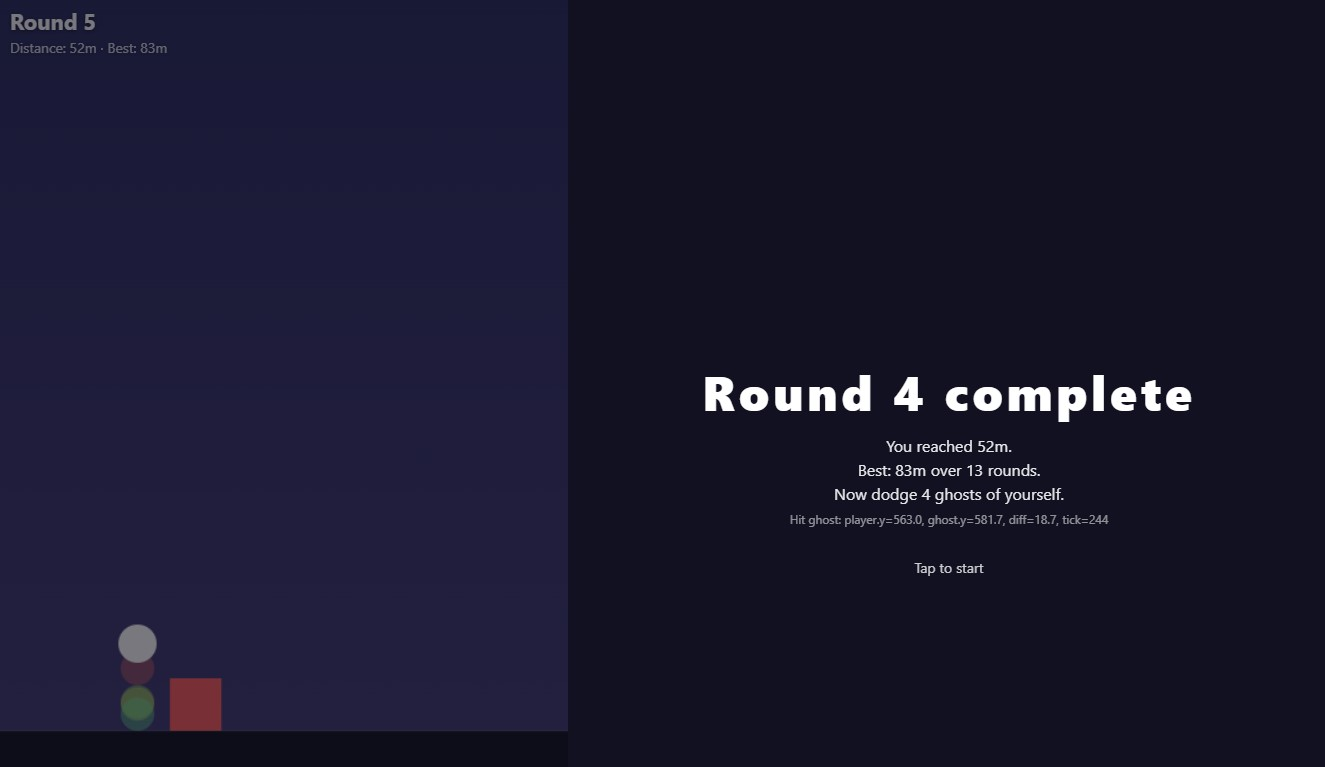
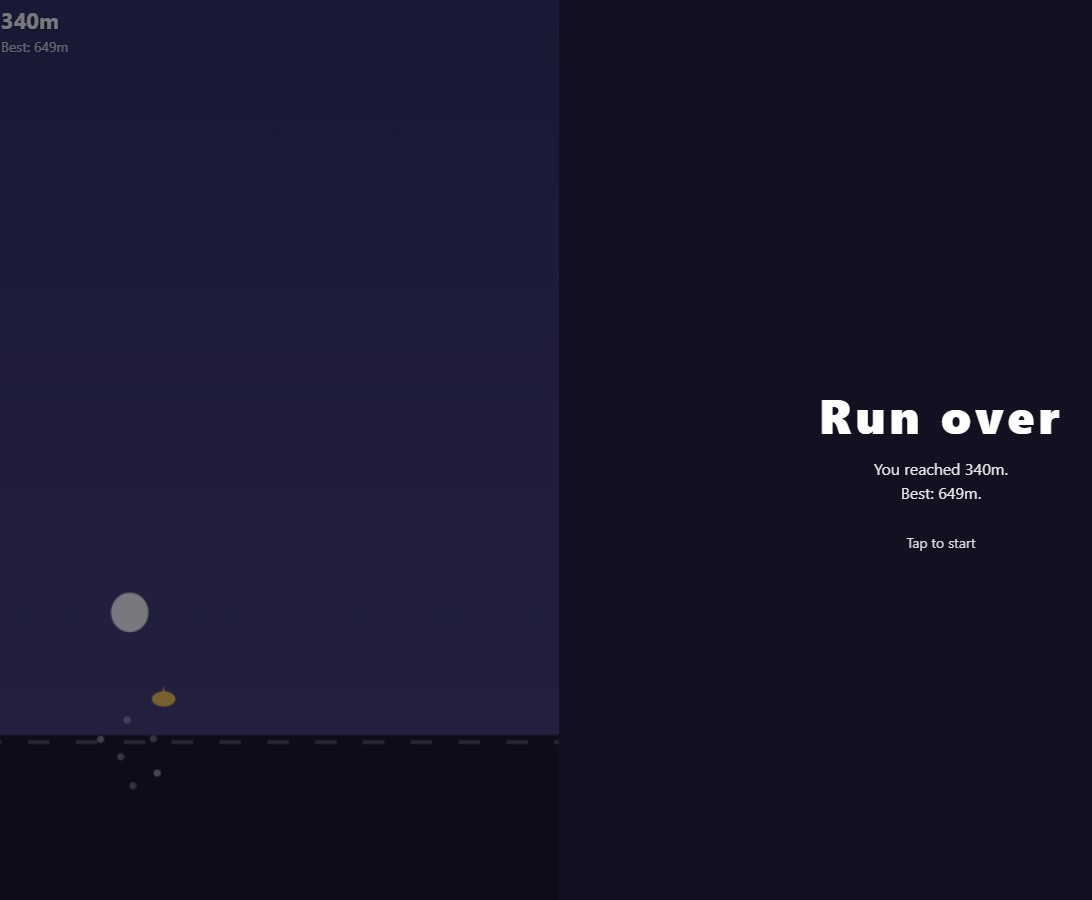
Fix flying bird hitbox to match visual size, add approach speed
Birds were using the full original ground/overhead box as their hitbox
while only rendering a small bird graphic near its center -- caused
collisions well outside the visible bird. Now uses a compact band
matching what's actually drawn. Also added extra closing speed once
on screen so birds feel like they're darting toward the player.

diff --git a/main.js b/main.js
@@ -71,6 +71,23 @@ const OVERHEAD_CLEARANCE_MAX = 30;
 const FLYING_INTRO_DISTANCE = 2600;
 const FLYING_CHANCE = 0.4; // of eligible (non-overhead) obstacles past the intro distance
 
+// Flying obstacles get a compact hitbox matching their actual (small) visual
+// size, not the full ground/overhead box they're tagged with — using the
+// full box caused invisible collisions well above/below the visible bird.
+// They also gain extra closing speed once on screen, so they read as
+// darting toward the player rather than drifting in with the scenery.
+const BIRD_HITBOX_HALF_HEIGHT = 22;
+const FLYING_EXTRA_SPEED = 90;
+
+function birdCenterY(ob) {
+  return ob.type === "overhead" ? GROUND_Y - ob.clearance - 10 : GROUND_Y - ob.height / 2;
+}
+
+function obstacleScreenX(ob) {
+  const baseScreenX = PLAYER_X + (ob.spawnDistance - worldDistance);
+  return ob.flying ? baseScreenX - ob.extraApproach : baseScreenX;
+}
+
 const MILESTONES = [
   { distance: OVERHEAD_INTRO_DISTANCE, message: "Duck! Obstacles overhead now" },
   { distance: FLYING_INTRO_DISTANCE, message: "Incoming flyers!" },
@@ -87,14 +104,14 @@ function buildObstacleCourse(seed) {
     if (distance > OVERHEAD_INTRO_DISTANCE && rand() < OVERHEAD_CHANCE) {
       const clearance = OVERHEAD_CLEARANCE_MIN + rand() * (OVERHEAD_CLEARANCE_MAX - OVERHEAD_CLEARANCE_MIN);
       const flying = distance > FLYING_INTRO_DISTANCE && rand() < FLYING_CHANCE;
-      obstacles.push({ spawnDistance: distance, width, type: "overhead", clearance, flying, cleared: false });
+      obstacles.push({ spawnDistance: distance, width, type: "overhead", clearance, flying, extraApproach: 0, cleared: false });
     } else {
       // Randomized per obstacle, and the whole course is reseeded fresh each
       // run (see startRun) — never the same layout twice, always within a
       // height range that stays comfortably clearable.
       const height = 40 + Math.floor(rand() * 40);
       const flying = distance > FLYING_INTRO_DISTANCE && rand() < FLYING_CHANCE;
-      obstacles.push({ spawnDistance: distance, width, type: "ground", height, flying, cleared: false });
+      obstacles.push({ spawnDistance: distance, width, type: "ground", height, flying, extraApproach: 0, cleared: false });
     }
   }
   return obstacles;
@@ -362,7 +379,10 @@ function step() {
 
   // Obstacles: collision + "cleared" pop for satisfaction.
   for (const ob of OBSTACLE_COURSE) {
-    const screenX = PLAYER_X + (ob.spawnDistance - worldDistance);
+    if (ob.flying && ob.spawnDistance - worldDistance < LOGICAL_WIDTH + 60) {
+      ob.extraApproach += FLYING_EXTRA_SPEED * FIXED_DT;
+    }
+    const screenX = obstacleScreenX(ob);
     const halfW = ob.width / 2;
 
     if (!ob.cleared && screenX < PLAYER_X - halfW - PLAYER_RADIUS) {
@@ -371,7 +391,15 @@ function step() {
     }
 
     if (screenX + halfW > PLAYER_X - PLAYER_RADIUS && screenX - halfW < PLAYER_X + PLAYER_RADIUS) {
-      if (ob.type === "overhead") {
+      if (ob.flying) {
+        // Compact band matching the actual bird graphic, not the full
+        // ground/overhead box — see the comment by BIRD_HITBOX_HALF_HEIGHT.
+        const centerY = birdCenterY(ob);
+        if (player.y + PLAYER_RADIUS > centerY - BIRD_HITBOX_HALF_HEIGHT && player.y - PLAYER_RADIUS < centerY + BIRD_HITBOX_HALF_HEIGHT) {
+          endRun();
+          return;
+        }
+      } else if (ob.type === "overhead") {
         // Hangs from the top down to a low clearance — colliding means the
         // player's head rose too high (jumped) instead of staying grounded.
         const obstacleBottomY = GROUND_Y - ob.clearance;
@@ -387,7 +415,6 @@ function step() {
         }
       }
     }
-    if (screenX > PLAYER_X + 40) break;
   }
 }
 
@@ -449,19 +476,15 @@ function render() {
   // exact same hitbox/rule as their type, just drawn as a bobbing bird
   // (amber) instead of a static block — new presentation, same mechanic.
   for (const ob of OBSTACLE_COURSE) {
-    const screenX = PLAYER_X + (ob.spawnDistance - worldDistance);
+    const screenX = obstacleScreenX(ob); // must match the hitbox calculation exactly
     if (screenX < -60 || screenX > LOGICAL_WIDTH + 60) continue;
 
-    if (ob.type === "overhead") {
+    if (ob.flying) {
+      drawBird(screenX, birdCenterY(ob), ob.width);
+    } else if (ob.type === "overhead") {
       const bottomY = GROUND_Y - ob.clearance;
-      if (ob.flying) {
-        drawBird(screenX, bottomY - 10, ob.width);
-      } else {
-        ctx.fillStyle = "#4dd9ff";
-        ctx.fillRect(screenX - ob.width / 2, -20, ob.width, bottomY + 20);
-      }
-    } else if (ob.flying) {
-      drawBird(screenX, GROUND_Y - ob.height / 2, ob.width);
+      ctx.fillStyle = "#4dd9ff";
+      ctx.fillRect(screenX - ob.width / 2, -20, ob.width, bottomY + 20);
     } else {
       ctx.fillStyle = "#ff5d5d";
       ctx.fillRect(screenX - ob.width / 2, GROUND_Y - ob.height, ob.width, ob.height);
